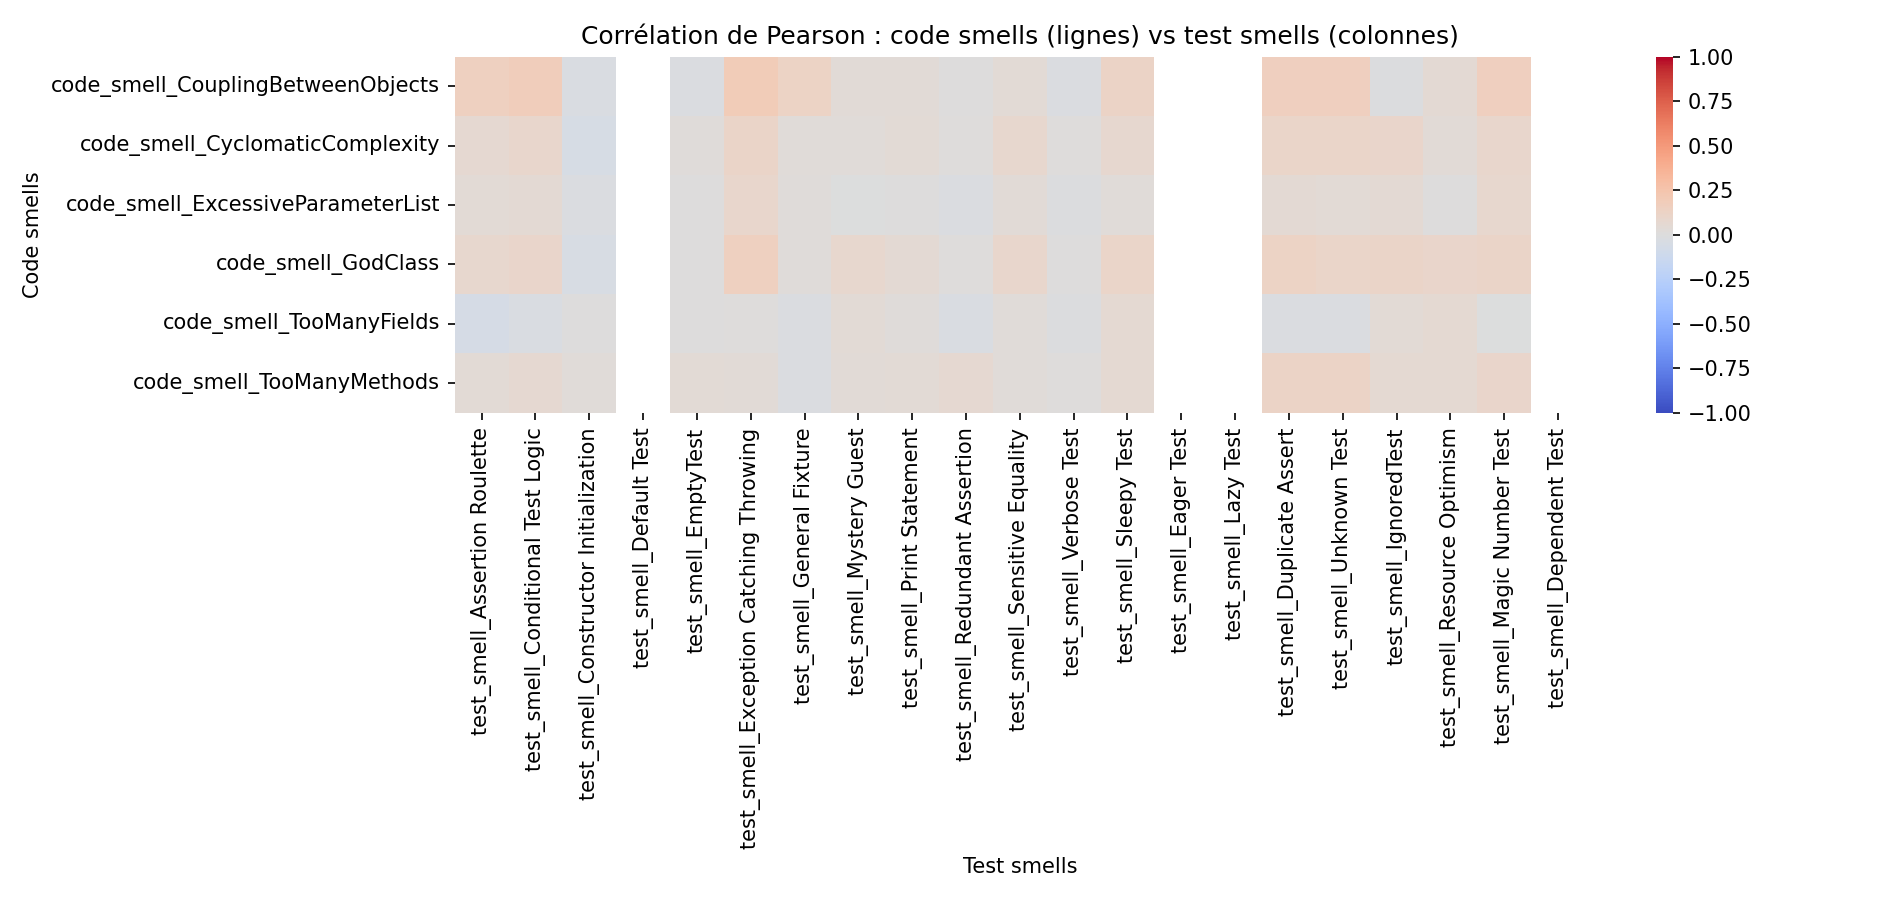
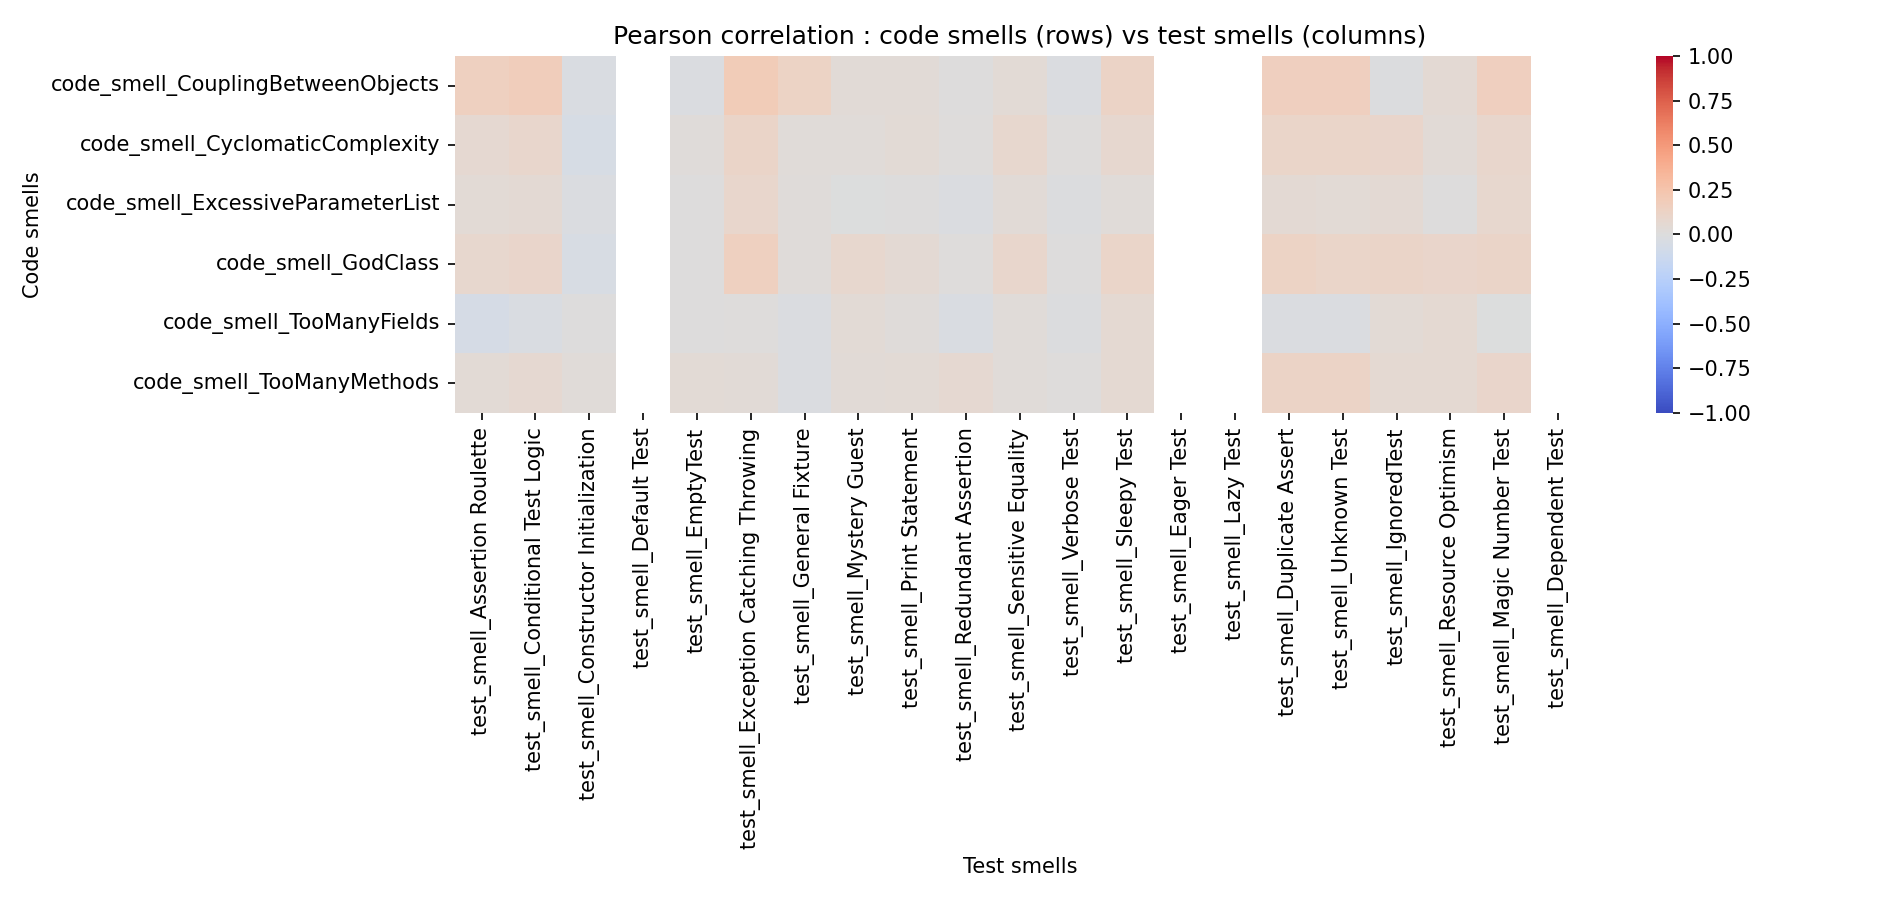
feat: changed labels of the pearson heatmap

diff --git a/ml_model/predict_smells.py b/ml_model/predict_smells.py
@@ -185,7 +185,7 @@ def compute_correlations(df, code_cols, test_cols, output_dir):
         pearson_matrix.astype(float), annot=False, cmap="coolwarm",
         center=0, vmin=-1, vmax=1,
     )
-    plt.title("Corrélation de Pearson : code smells (lignes) vs test smells (colonnes)")
+    plt.title("Pearson correlation : code smells (rows) vs test smells (columns)")
     plt.xlabel("Test smells")
     plt.ylabel("Code smells")
     plt.tight_layout()
@@ -291,14 +291,10 @@ def train_direction_model(df, feature_cols, target_col, model_name, output_dir,
     )
 
     print(f"\n[Modèle: {model_name}]")
-    print(f"  Cible                 : {target_col}")
-    print(f"  Split                 : {split_desc}")
-    print(f"  Nb features           : {len(feature_cols)}")
     print(f"  Accuracy              : {report['accuracy']:.3f}")
-    print(f"  Baseline (majoritaire): {baseline_accuracy:.3f}")
+    print(f"  Baseline : {baseline_accuracy:.3f}")
     print(f"  Gain vs baseline      : {lift:+.3f}"
           + ("  <-- attention, gain faible ou négatif : signal peu fiable" if lift < 0.05 else ""))
-    print(f"  ROC AUC               : {auc if auc is None else round(auc, 3)}")
     print(f"  Top 5 features        : {list(importances.head(5).index)}")
 
     return clf, report, auc
